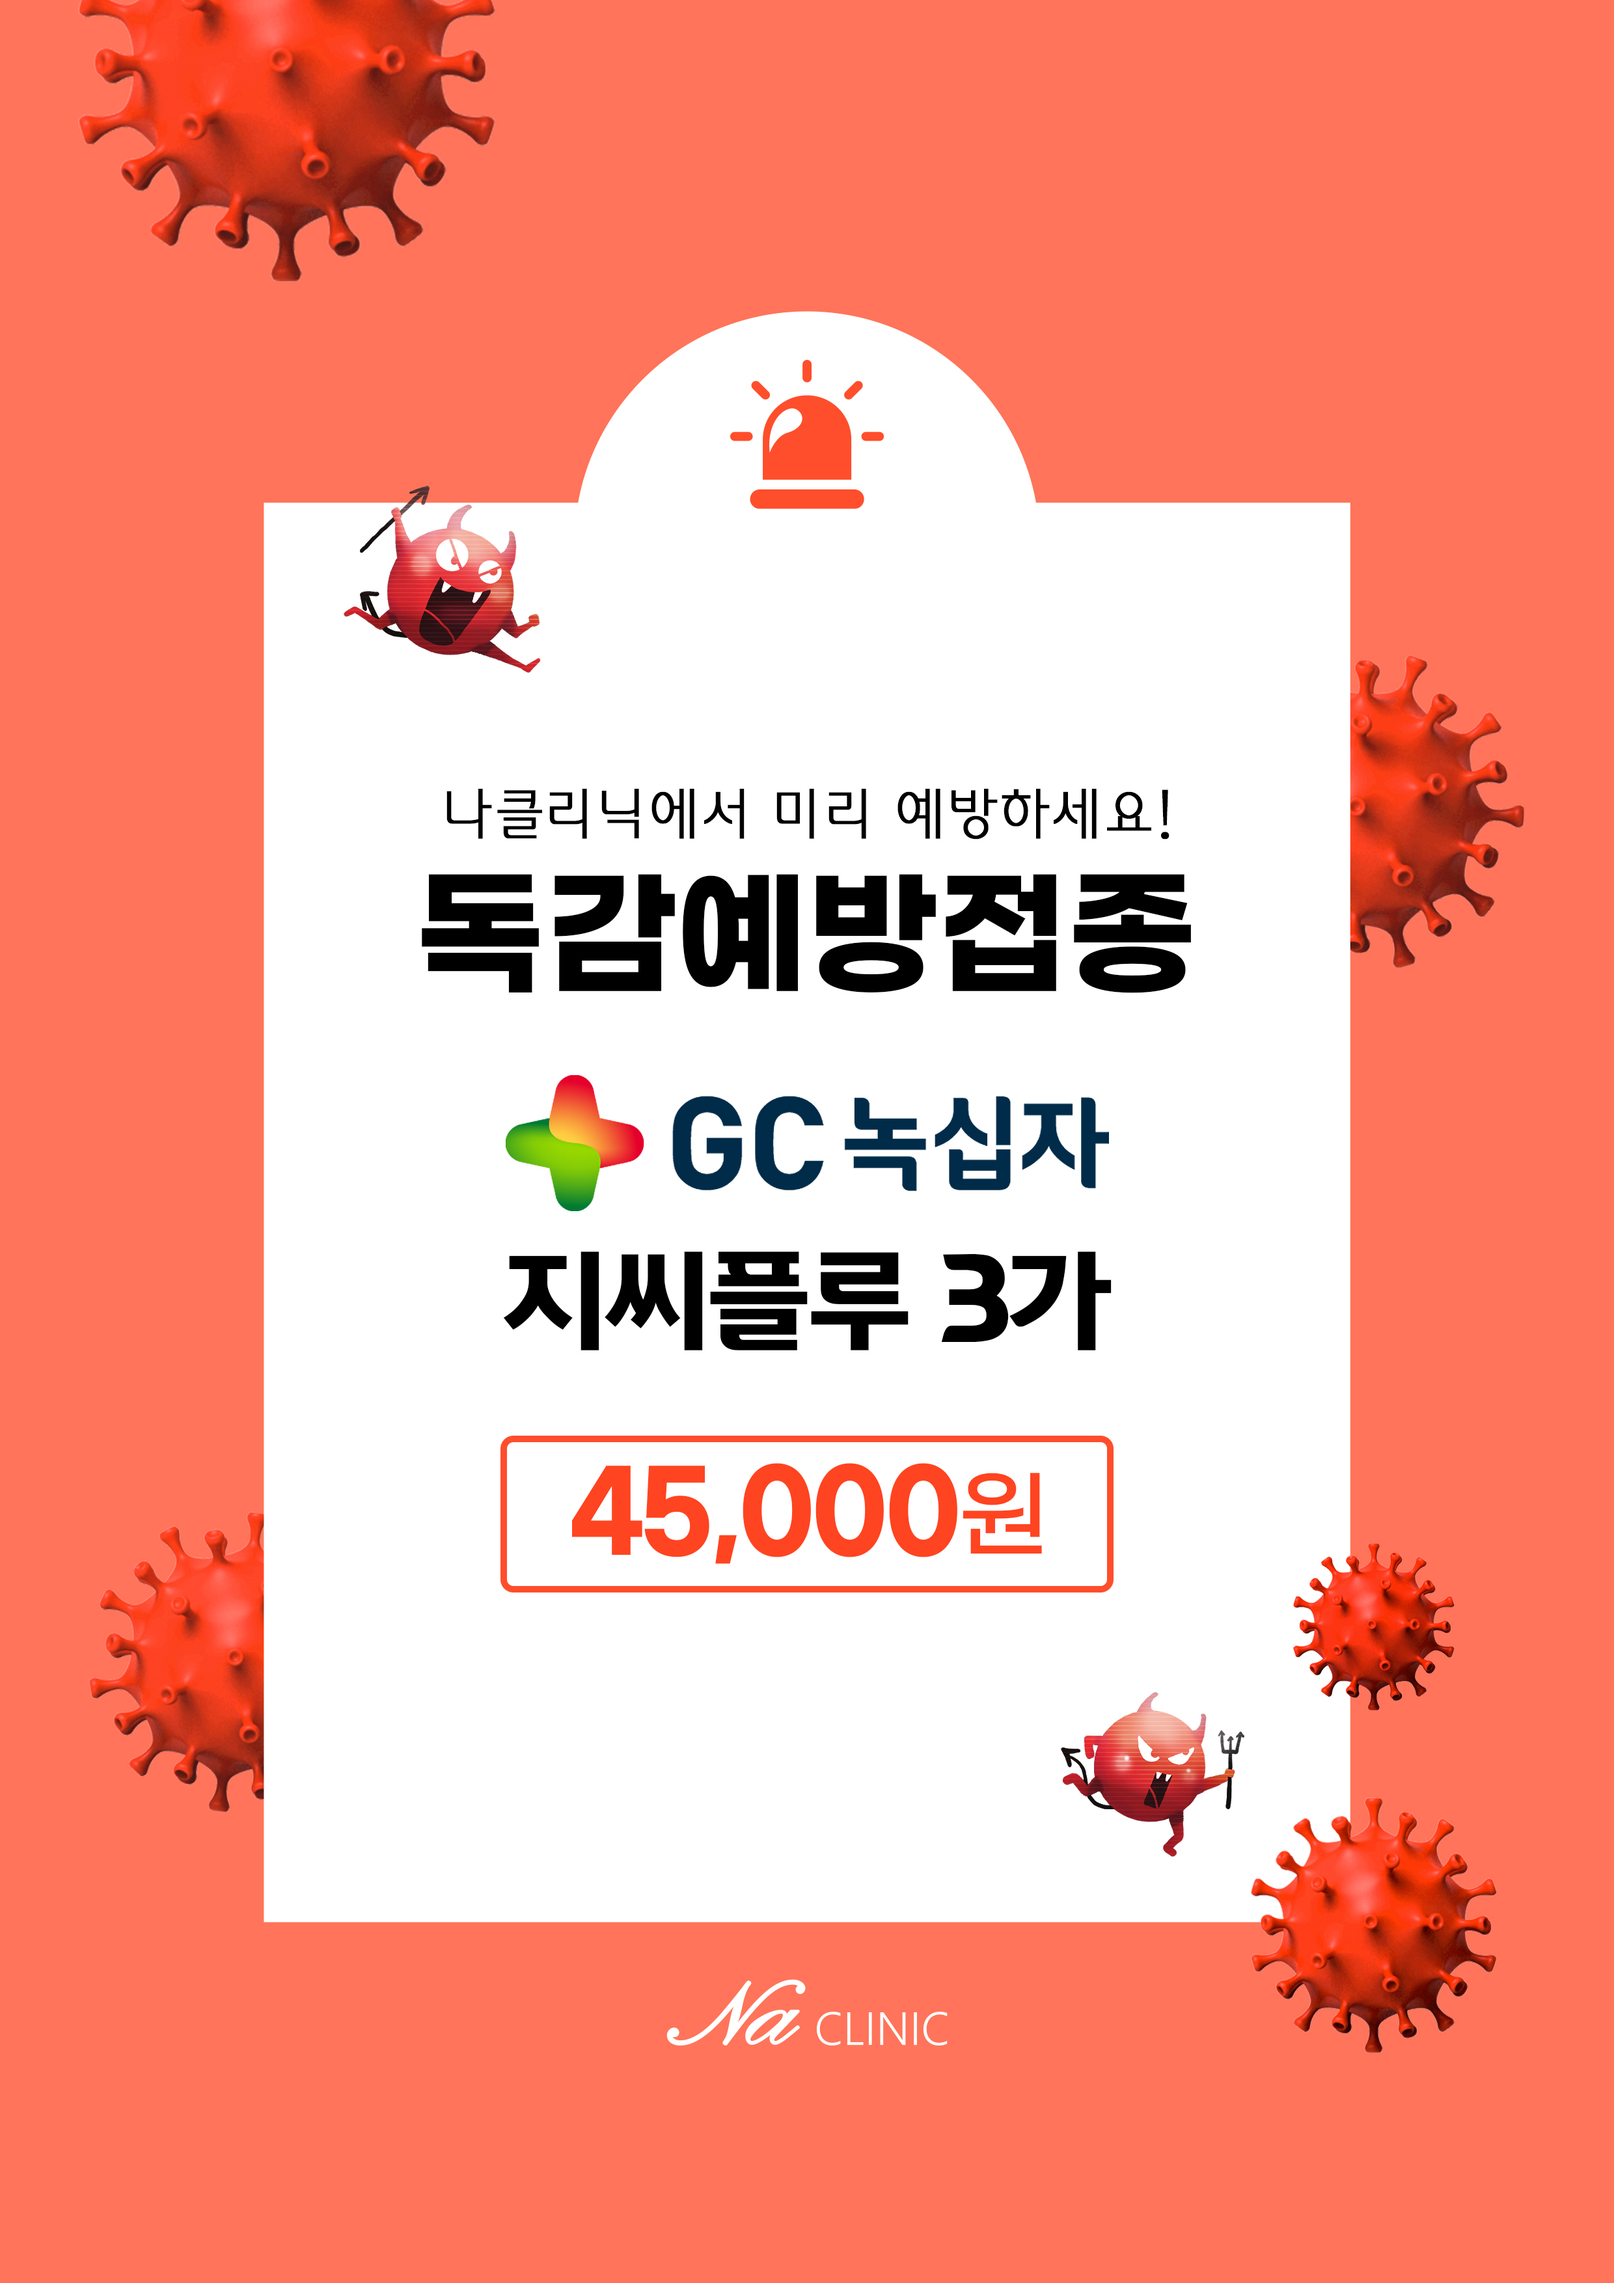
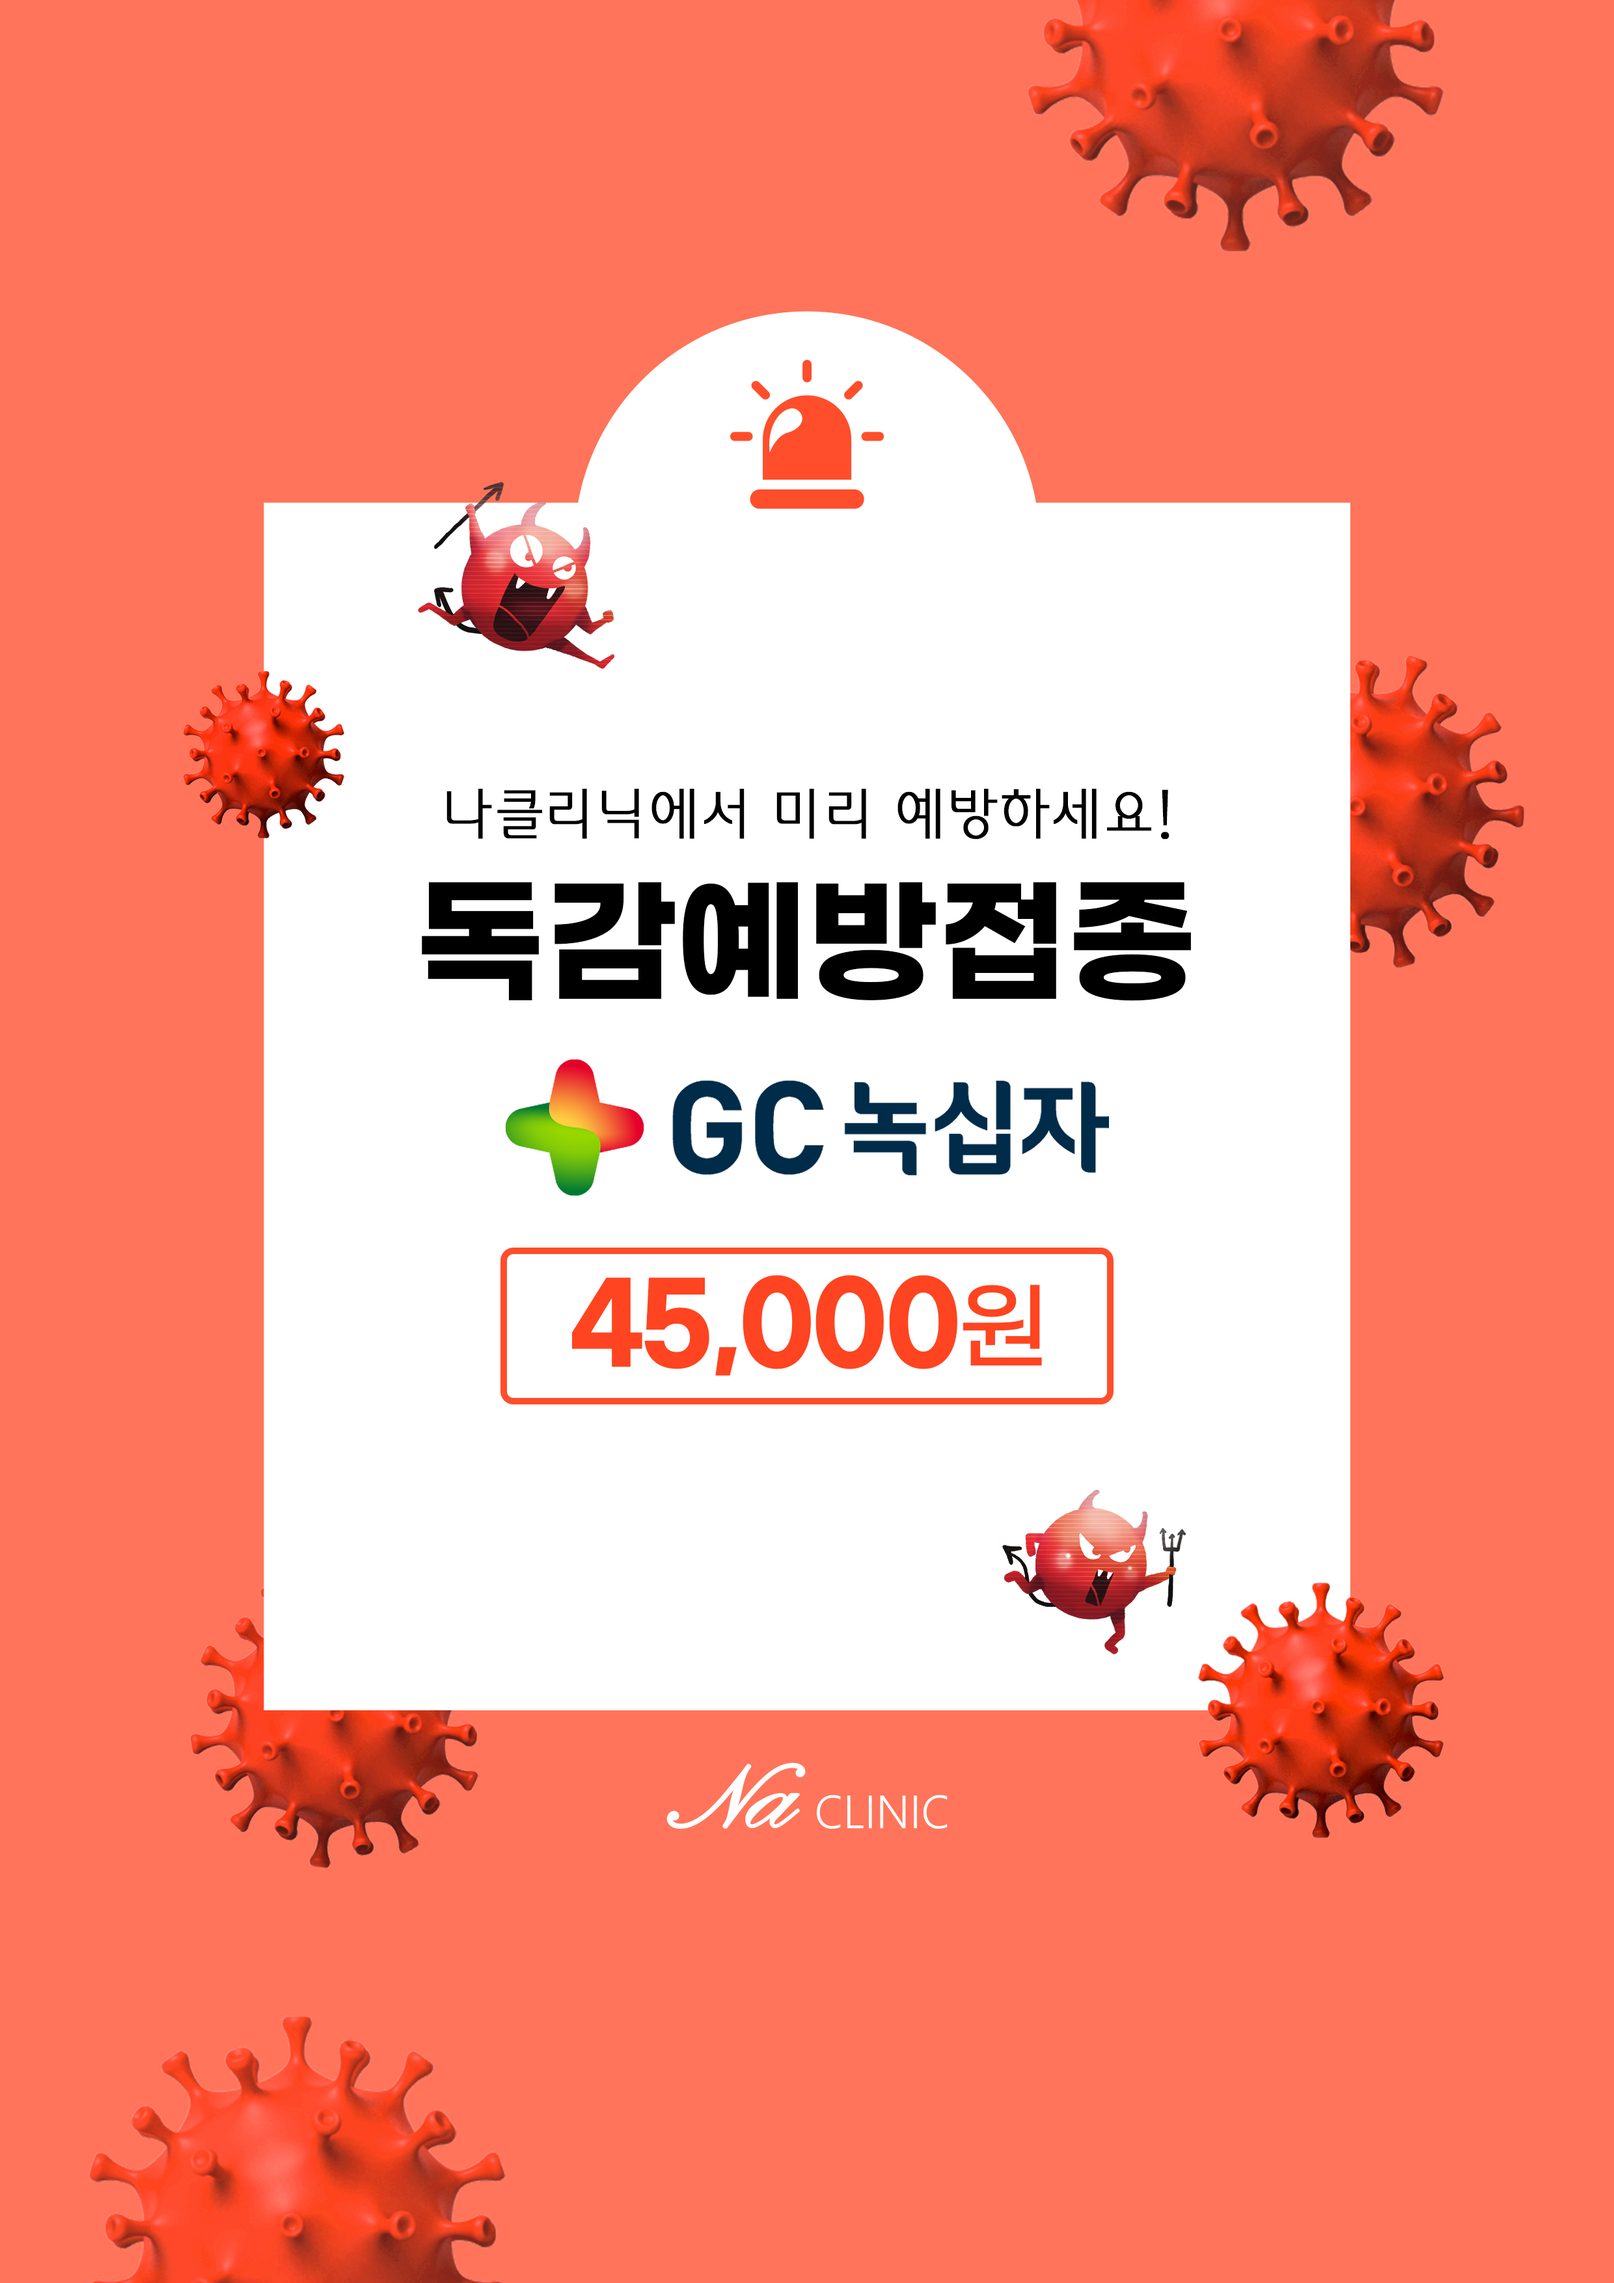
Add 랜딩페이지, 배너, 웹포스터 images and update 포스터
- 랜딩페이지: Resv_iphoneDuo.gif
- 배너: KT_네이버페이_PC.gif
- 웹포스터: 예랑행사.jpg
- 포스터: 2026독감주사.jpg updated
- Regenerate _site galleries

diff --git a/_site/2_Web_Contents_배너.html b/_site/2_Web_Contents_배너.html
@@ -574,6 +574,18 @@ if (typeof handleCategoryClick !== 'function') {
     
     
     <div class="cursor-pointer group relative overflow-hidden rounded-xl shadow-sm hover:shadow-2xl hover:-translate-y-1.5 transition-all duration-300 bg-gray-50 border border-gray-100 aspect-square flex items-center justify-center"
+         onclick="openLightbox('../2 Web Contents/배너/KT_네이버페이_PC.gif', 'KT_네이버페이_PC.gif')">
+        <img src="../2 Web Contents/배너/KT_네이버페이_PC.gif" alt="KT_네이버페이_PC.gif" class="object-cover w-full h-full group-hover:scale-105 transition-transform duration-500">
+        
+        <!-- Hover Overlay -->
+        <div class="absolute inset-0 bg-black/50 opacity-0 group-hover:opacity-100 transition-opacity duration-300 flex items-center justify-center p-4">
+            <span class="text-white text-sm font-semibold text-center break-words transform translate-y-2 group-hover:translate-y-0 transition-transform duration-300">KT_네이버페이_PC.gif</span>
+        </div>
+    </div>
+    
+    
+    
+    <div class="cursor-pointer group relative overflow-hidden rounded-xl shadow-sm hover:shadow-2xl hover:-translate-y-1.5 transition-all duration-300 bg-gray-50 border border-gray-100 aspect-square flex items-center justify-center"
          onclick="openLightbox('../2 Web Contents/배너/KT_벨킨사은품_PC.gif', 'KT_벨킨사은품_PC.gif')">
         <img src="../2 Web Contents/배너/KT_벨킨사은품_PC.gif" alt="KT_벨킨사은품_PC.gif" class="object-cover w-full h-full group-hover:scale-105 transition-transform duration-500">
         

diff --git a/_site/2_Web_Contents_웹포스터.html b/_site/2_Web_Contents_웹포스터.html
@@ -574,6 +574,18 @@ if (typeof handleCategoryClick !== 'function') {
     
     
     <div class="cursor-pointer group relative overflow-hidden rounded-xl shadow-sm hover:shadow-2xl hover:-translate-y-1.5 transition-all duration-300 bg-gray-50 border border-gray-100 aspect-square flex items-center justify-center"
+         onclick="openLightbox('../2 Web Contents/웹포스터/예랑행사.jpg', '예랑행사.jpg')">
+        <img src="../2 Web Contents/웹포스터/예랑행사.jpg" alt="예랑행사.jpg" class="object-cover w-full h-full group-hover:scale-105 transition-transform duration-500">
+        
+        <!-- Hover Overlay -->
+        <div class="absolute inset-0 bg-black/50 opacity-0 group-hover:opacity-100 transition-opacity duration-300 flex items-center justify-center p-4">
+            <span class="text-white text-sm font-semibold text-center break-words transform translate-y-2 group-hover:translate-y-0 transition-transform duration-300">예랑행사.jpg</span>
+        </div>
+    </div>
+    
+    
+    
+    <div class="cursor-pointer group relative overflow-hidden rounded-xl shadow-sm hover:shadow-2xl hover:-translate-y-1.5 transition-all duration-300 bg-gray-50 border border-gray-100 aspect-square flex items-center justify-center"
          onclick="openLightbox('../2 Web Contents/웹포스터/2608_택배배송안내.jpg', '2608_택배배송안내.jpg')">
         <img src="../2 Web Contents/웹포스터/2608_택배배송안내.jpg" alt="2608_택배배송안내.jpg" class="object-cover w-full h-full group-hover:scale-105 transition-transform duration-500">
         

diff --git a/_site/2_Web_Contents_랜딩페이지.html b/_site/2_Web_Contents_랜딩페이지.html
@@ -574,6 +574,18 @@ if (typeof handleCategoryClick !== 'function') {
     
     
     <div class="cursor-pointer group relative overflow-hidden rounded-xl shadow-sm hover:shadow-2xl hover:-translate-y-1.5 transition-all duration-300 bg-gray-50 border border-gray-100 aspect-square flex items-center justify-center"
+         onclick="openLightbox('../2 Web Contents/랜딩페이지/Resv_iphoneDuo.gif', 'Resv_iphoneDuo.gif')">
+        <img src="../2 Web Contents/랜딩페이지/Resv_iphoneDuo.gif" alt="Resv_iphoneDuo.gif" class="object-cover w-full h-full group-hover:scale-105 transition-transform duration-500">
+        
+        <!-- Hover Overlay -->
+        <div class="absolute inset-0 bg-black/50 opacity-0 group-hover:opacity-100 transition-opacity duration-300 flex items-center justify-center p-4">
+            <span class="text-white text-sm font-semibold text-center break-words transform translate-y-2 group-hover:translate-y-0 transition-transform duration-300">Resv_iphoneDuo.gif</span>
+        </div>
+    </div>
+    
+    
+    
+    <div class="cursor-pointer group relative overflow-hidden rounded-xl shadow-sm hover:shadow-2xl hover:-translate-y-1.5 transition-all duration-300 bg-gray-50 border border-gray-100 aspect-square flex items-center justify-center"
          onclick="openLightbox('../2 Web Contents/랜딩페이지/Resv_iphone18.gif', 'Resv_iphone18.gif')">
         <img src="../2 Web Contents/랜딩페이지/Resv_iphone18.gif" alt="Resv_iphone18.gif" class="object-cover w-full h-full group-hover:scale-105 transition-transform duration-500">
         
